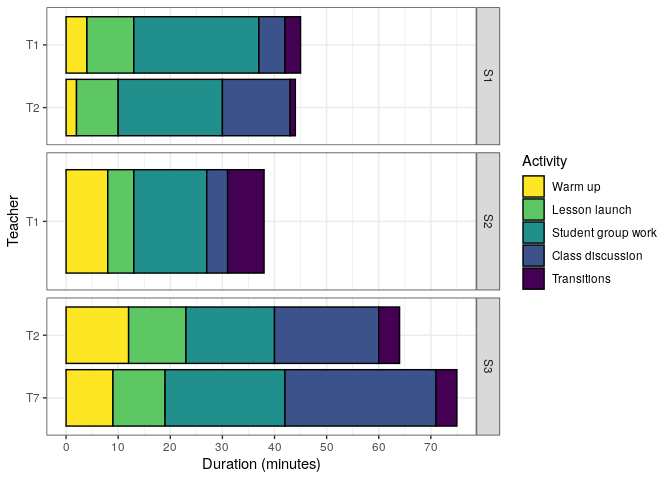
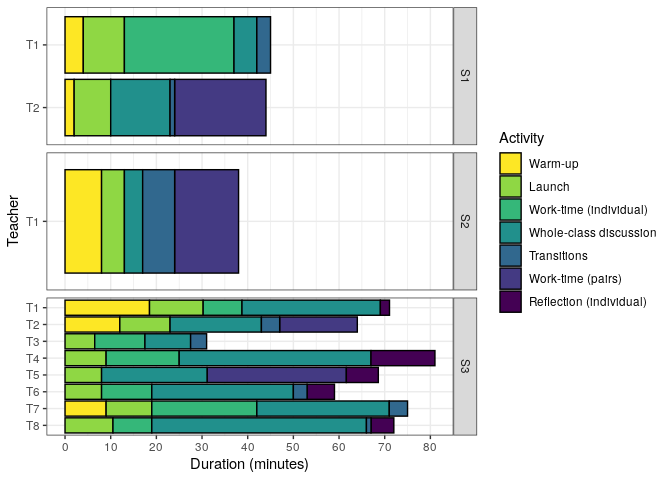
changes

diff --git a/bar_graphs.md b/bar_graphs.md
@@ -1,7 +1,7 @@
 Time charts for observed lessons
 ================
 Saurabh Khanna
-2020-04-17
+2020-04-21
 
   - [Time charts](#time-charts)
       - [Reading in data](#reading-in-data)
@@ -11,6 +11,7 @@ Saurabh Khanna
 ``` r
 # Libraries
 library(tidyverse)
+library(readxl)
 ```
 
 # Time charts
@@ -20,38 +21,42 @@ library(tidyverse)
 ``` r
 df <-
   tribble(
-    ~school, ~teacher, ~act,                   ~time,
+    ~school, ~teacher, ~act,                     ~time,
     
-    "S1",    "T1",     "Warm up",              4,
-    "S1",    "T1",     "Lesson launch",        9,
-    "S1",    "T1",     "Student group work",   24,
-    "S1",    "T1",     "Class discussion",     5,
-    "S1",    "T1",     "Transitions",          3,
+    "S1",    "T1",     "Warm-up",                4,
+    "S1",    "T1",     "Launch",                 9,
+    "S1",    "T1",     "Work-time (individual)", 24,
+    "S1",    "T1",     "Whole-class discussion", 5,
+    "S1",    "T1",     "Transitions",             3,
     
-    "S1",    "T2",     "Warm up",              2,
-    "S1",    "T2",     "Lesson launch",        8,
-    "S1",    "T2",     "Student group work",   20,
-    "S1",    "T2",     "Class discussion",     13,
-    "S1",    "T2",     "Transitions",          1,
+    "S1",    "T2",     "Warm-up",                2,
+    "S1",    "T2",     "Launch",                 8,
+    "S1",    "T2",     "Work-time (pairs)",      20,
+    "S1",    "T2",     "Whole-class discussion", 13,
+    "S1",    "T2",     "Transitions",             1,
     
-    "S2",    "T1",     "Warm up",              8,
-    "S2",    "T1",     "Lesson launch",        5,
-    "S2",    "T1",     "Student group work",   14,
-    "S2",    "T1",     "Class discussion",     4,  
-    "S2",    "T1",     "Transitions",          7,
+    "S2",    "T1",     "Warm-up",                8,
+    "S2",    "T1",     "Launch",                 5,
+    "S2",    "T1",     "Work-time (pairs)",      14,
+    "S2",    "T1",     "Whole-class discussion", 4,  
+    "S2",    "T1",     "Transitions",             7,
     
-    "S3",    "T2",     "Warm up",              12,
-    "S3",    "T2",     "Lesson launch",        11,
-    "S3",    "T2",     "Student group work",   17,
-    "S3",    "T2",     "Class discussion",     20,
-    "S3",    "T2",     "Transitions",          4,
+    "S3",    "T2",     "Warm-up",                12,
+    "S3",    "T2",     "Launch",                 11,
+    "S3",    "T2",     "Work-time (pairs)",      17,
+    "S3",    "T2",     "Whole-class discussion", 20,
+    "S3",    "T2",     "Transitions",             4,
     
-    "S3",    "T7",     "Warm up",              9,
-    "S3",    "T7",     "Lesson launch",        10,
-    "S3",    "T7",     "Student group work",   23,
-    "S3",    "T7",     "Class discussion",     29,
-    "S3",    "T7",     "Transitions",          4
+    "S3",    "T7",     "Warm-up",                9,
+    "S3",    "T7",     "Launch",                 10,
+    "S3",    "T7",     "Work-time (individual)", 23,
+    "S3",    "T7",     "Whole-class discussion", 29,
+    "S3",    "T7",     "Transitions",             4
   ) %>%
+  bind_rows(
+    read_xlsx("data/ml_data.xlsx")
+  ) %>%
+  arrange(school, teacher) %>%
   mutate(
     act = act %>% fct_inorder() %>% fct_rev(),
     teacher = teacher %>% fct_inorder() %>% fct_rev()
